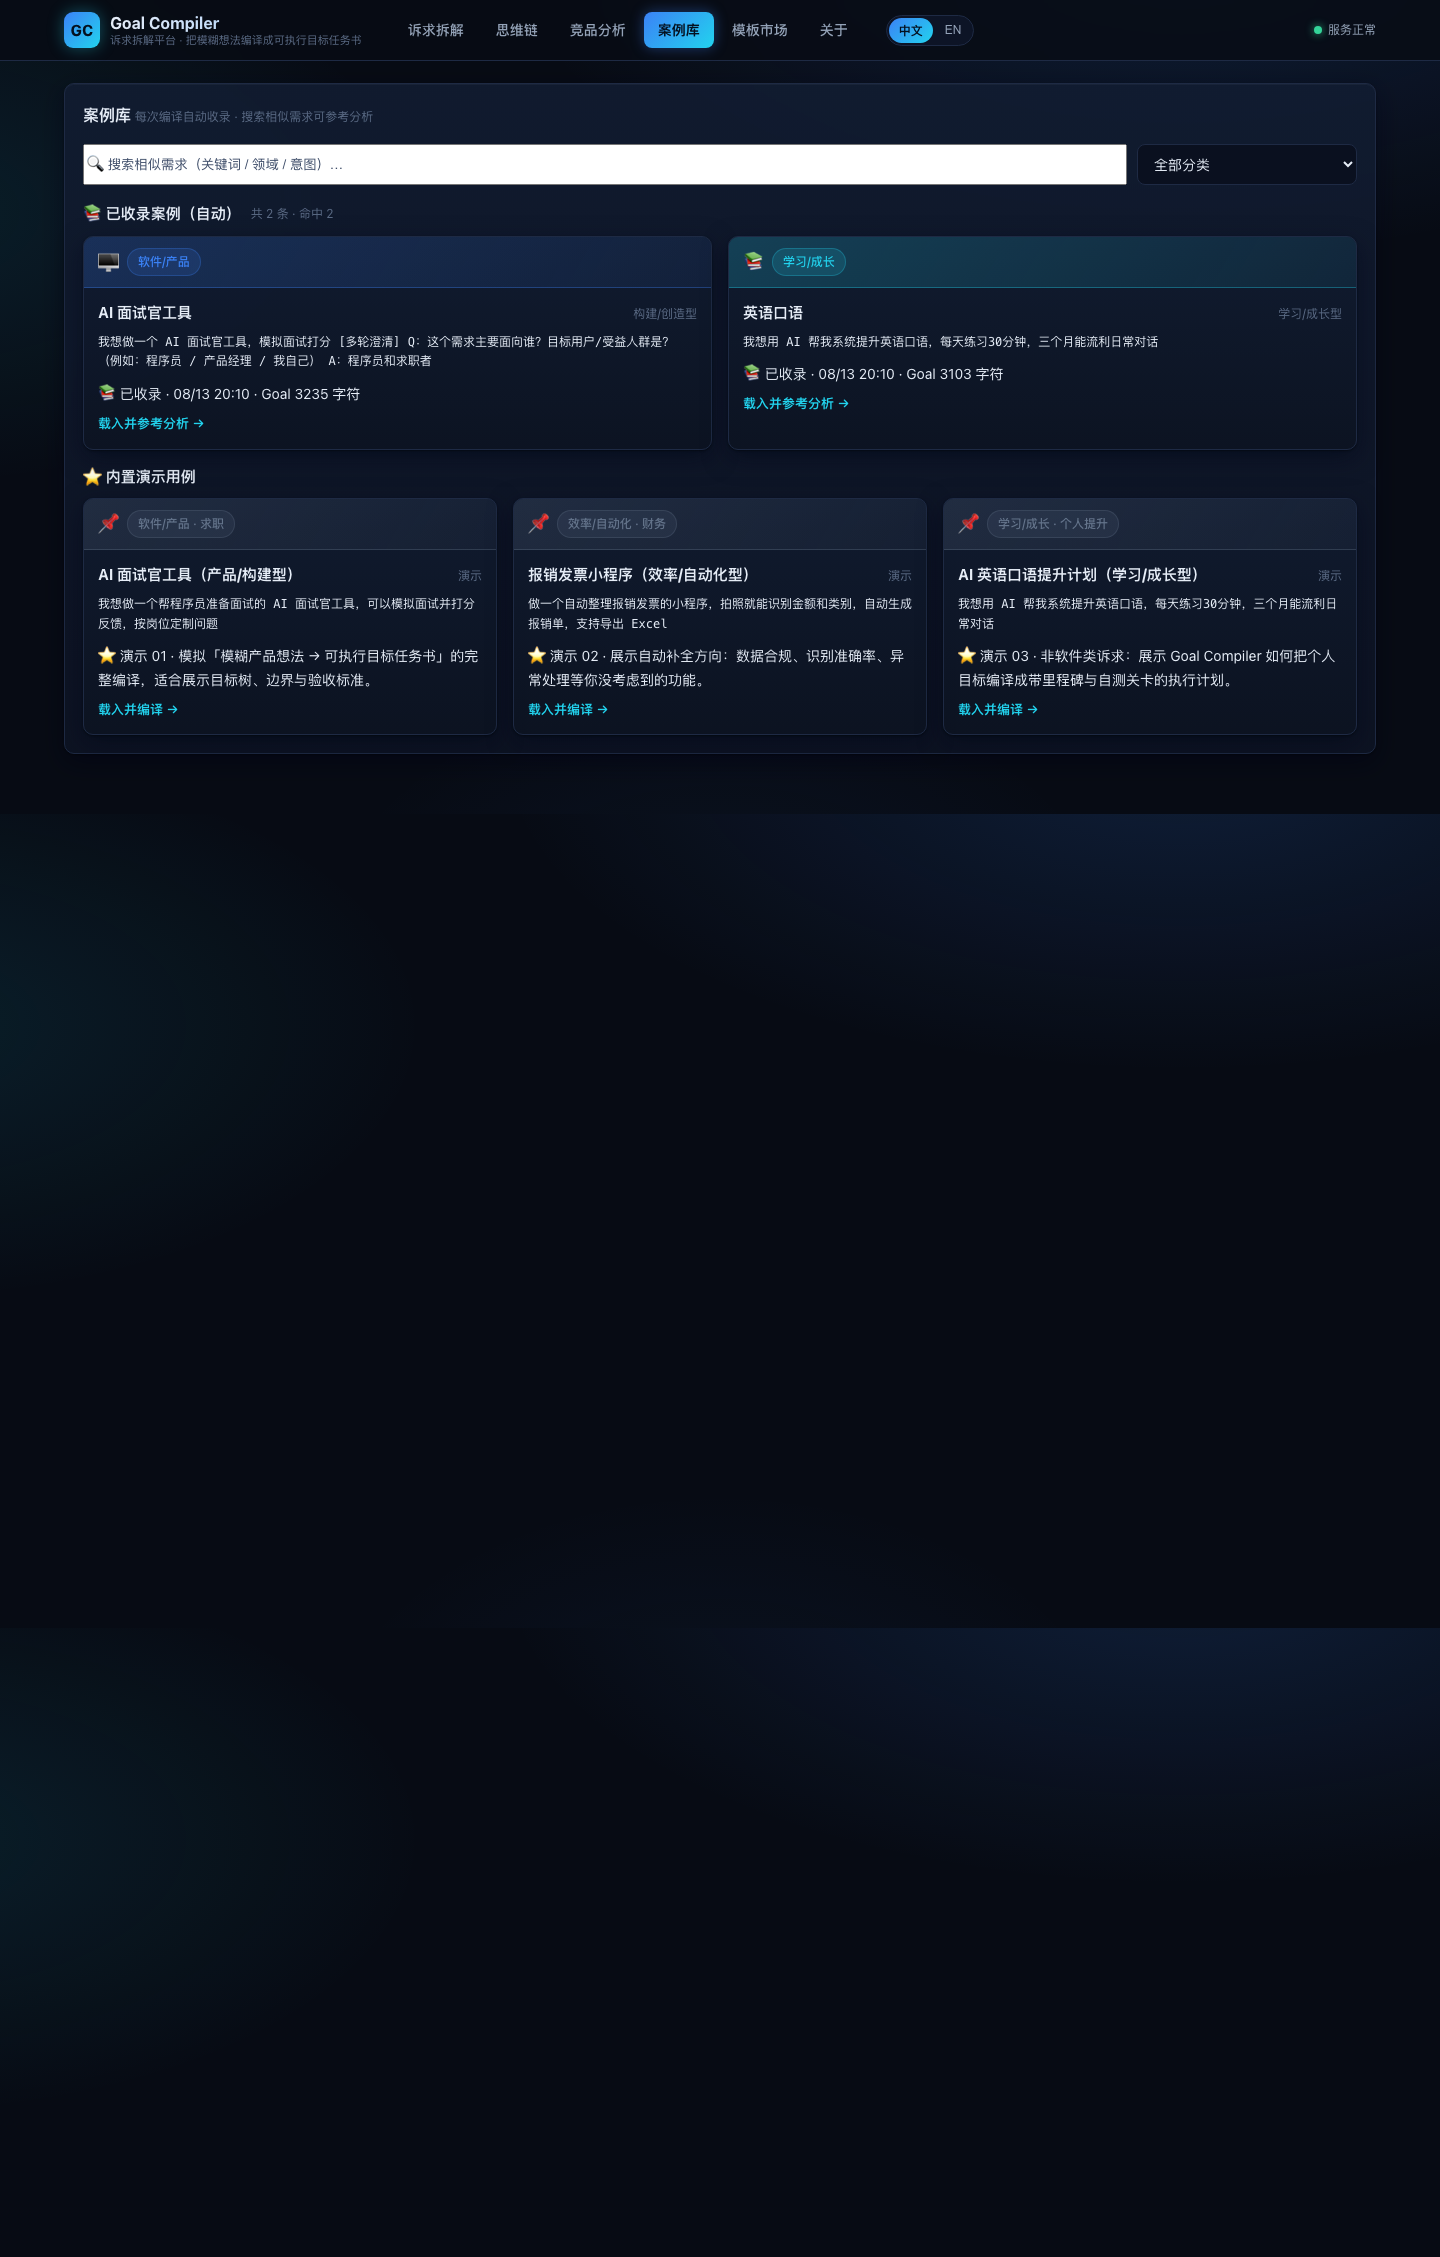
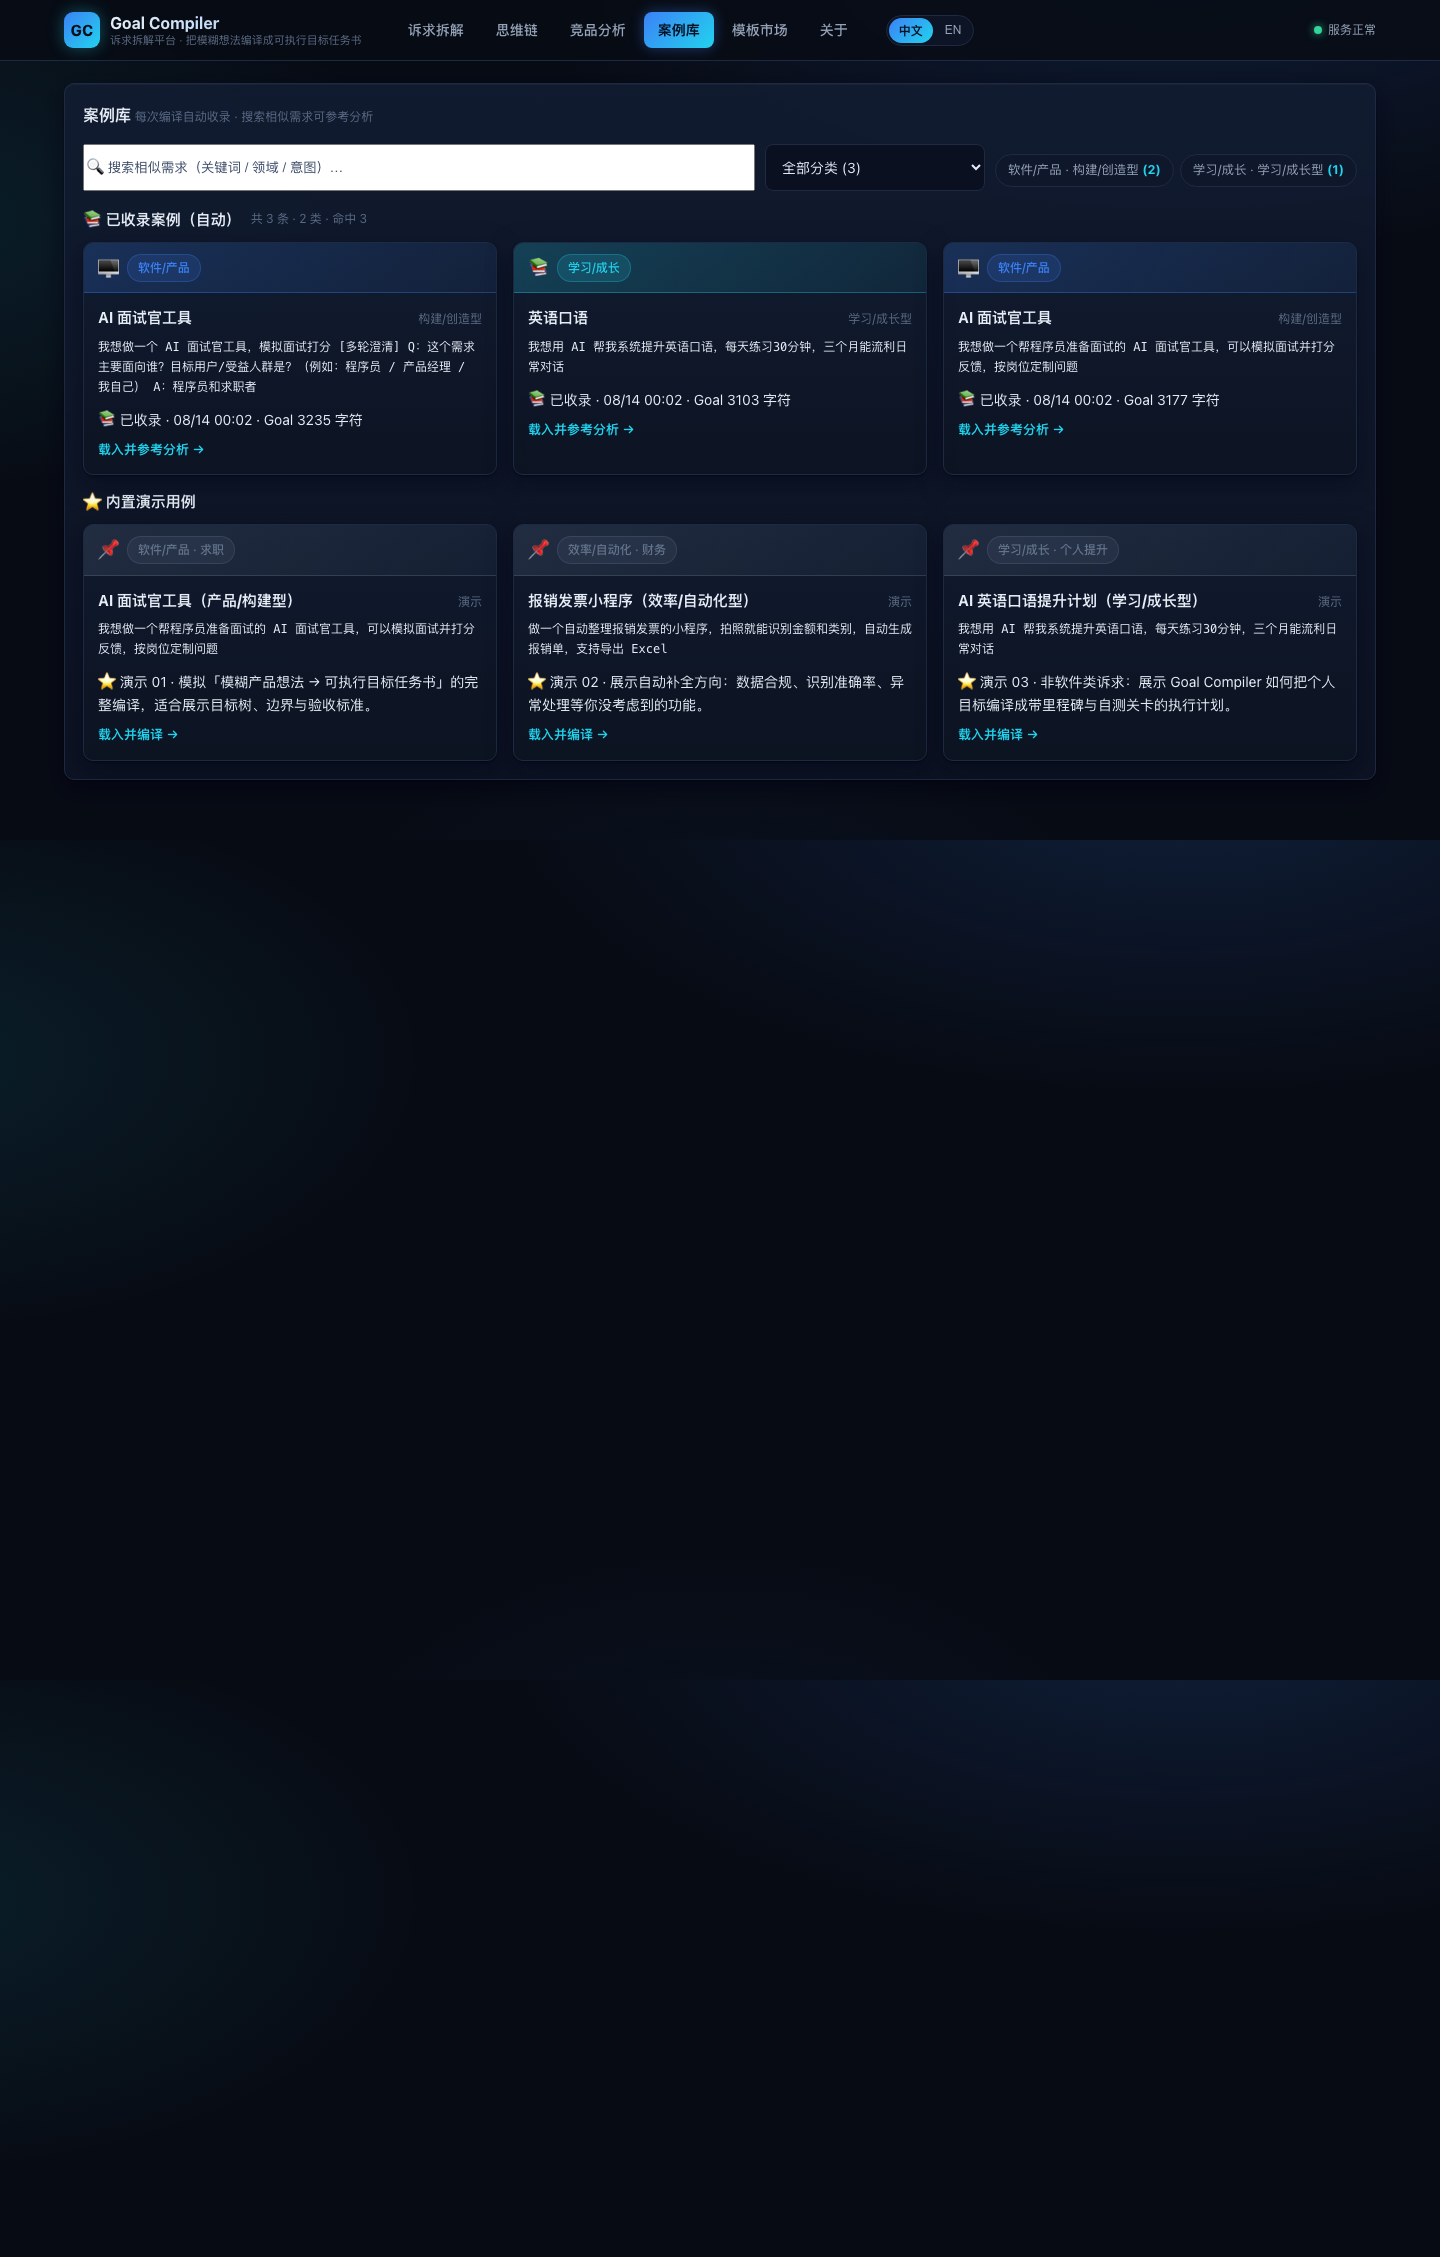
feat(goal-compiler): v10 — 案例库完整记录不覆盖+类目数量状态 / 发散分析新增特例与场景细节
- 📚 案例库改为完整记录：每次新增需求都保留（按输入去重，不覆盖历史条目），类目显示数量状态（总数/类别数/每类数量 chips + 下拉带计数）
- 🧩 发散式分析增强：新增「特例分析（异常/边界）」组（按领域生成 5 类特例：极端输入/权限/数据缺失/幻觉/刷量/任务失败等）；「应用场景」升级为细节描述（应用场景+落地细节：试点验证/P0解耦）；专家画像与点评融入特例统计
- 思维框图发散泳道加入特例节点（⚠ 图标）
- 修复 catCounts TDZ（hoist）
- 测试：单测+API 25/25、浏览器 E2E 66/66

diff --git a/05-projects/09-goal-compiler/public/styles.css b/05-projects/09-goal-compiler/public/styles.css
@@ -509,3 +509,7 @@ textarea, input[type="text"], select { caret-color: var(--cyan); }
 .divergence-lane { border-color: rgba(34,211,238,.35); background: linear-gradient(180deg, rgba(16,40,60,.5), rgba(10,17,32,.5)); }
 @media (max-width: 1080px) { .divergence-groups { grid-template-columns: 1fr 1fr; } }
 @media (max-width: 720px) { .divergence-groups { grid-template-columns: 1fr; } }
+
+/* ---- v10：案例分类数量状态 ---- */
+.case-cat-summary { display: flex; flex-wrap: wrap; gap: 6px; margin: 10px 0 4px; }
+.case-cat-summary .chip b { color: var(--cyan); }

diff --git a/05-projects/09-goal-compiler/README.md b/05-projects/09-goal-compiler/README.md
@@ -71,6 +71,11 @@
 - 🧭 **思维链场景化 + 发散式分析**：思维链升级为「针对本需求的逻辑链」——专家总览新增**需求画像**（对象/领域/意图/缺口/发散规模）；新增**需求发散式分析**（4 组 × 19 条：推荐添加的功能 / 可扩展场景 / 潜在用户变体 / 边界提醒），全部随需求领域动态生成、点击弹窗详情
 - 🗺 **思维框图新增「发散分析」泳道**：14 个主逻辑 + 发散节点同图展示（5 泳道 20 节点），发散节点点击可看详细说明
 
+## 本次升级（v10）
+
+- 📚 **案例库完整记录不覆盖**：每次新增需求都保留（按输入去重，不再覆盖历史条目）；**需求类目显示数量状态**（总条数/类别数/每类数量摘要 chips + 分类下拉带计数）
+- 🧩 **发散式分析增强**：新增「🔬 特例分析（异常/边界）」组（按领域生成：极端输入/权限越权/数据缺失/模型幻觉/版权/刷量/任务失败等）；「应用场景」组升级为**细节描述**（应用场景 + 落地细节：试点验证/与 P0 解耦）；专家画像与点评融入特例统计
+
 设计风格：**商务科技深色**（深空蓝黑底 + 电光蓝/青渐变、玻璃拟态卡片、高信息密度，保持商务高效简约）。
 
 ## 快速开始
@@ -86,8 +91,8 @@ node server/server.mjs 8910
 ## 测试
 
 ```bash
-node --test tests/compile.test.mjs tests/caselib.test.mjs tests/skilllib.test.mjs tests/dialogue.test.mjs tests/divergence.test.mjs tests/api.test.mjs tests/api2.test.mjs   # 单测+案例库+SKILL+对话+发散+API（23/23）
-node tests/e2e-cdp.mjs                                                                                                                                                                # 浏览器端到端（63/63，需本机 Chrome）
+node --test tests/compile.test.mjs tests/caselib.test.mjs tests/skilllib.test.mjs tests/dialogue.test.mjs tests/divergence.test.mjs tests/api.test.mjs tests/api2.test.mjs   # 单测+案例库+SKILL+对话+发散+API（25/25）
+node tests/e2e-cdp.mjs                                                                                                                                                                # 浏览器端到端（66/66，需本机 Chrome）
 ```
 
 ## 3 个内置测试用例
